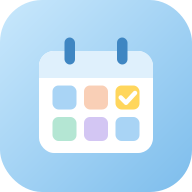
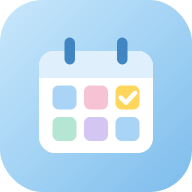
班別時間設定、配色與教學調整
- 新增「班別時間」：可設定 A–D 每班幾點到幾點，跨夜會標示到隔天
- ABCD 改成粉藍、玫瑰、薄荷、薰衣草；今天改成柔和杏色
- 年份移到月份上方、上班天數置中
- 教學會框出「完成，鎖定」與「回到最上面」
- 「以後再說」會指引到使用說明；說明資料與桌面 App 相同
- 快取版本 v2

Claude-Session: https://claude.ai/code/session_01KZ1R5DbayZg3oRgXmngB8d

Changed region(s): [[0.4375, 0.4375, 0.5625, 0.5938]]

diff --git a/index.html b/index.html
@@ -25,12 +25,12 @@
   --glass:rgba(255,255,255,.74); --glassStrong:rgba(255,255,255,.92); --headBg:rgba(234,245,253,.9);
   --ink:#2b4258; --muted:#5f7489; --faint:#a3b7c9; --line:rgba(98,155,205,.28);
   --accent:#3d8cce; --accent-ink:#ffffff; --accentSoft:rgba(125,189,236,.24); --meBg:rgba(150,205,245,.38); --meLine:#8ec2ea;
-  --sun:#d46c64; --sat:#4c9670; --today:rgba(255,232,140,.5); --todayLine:#efc64a;
+  --sun:#d46c64; --sat:#4c9670; --today:rgba(255,236,222,.66); --todayLine:#f2c7a8;
   --edit:#ffe8de; --editInk:#c2674a;
-  --sA:#d9ecfc; --sA-ink:#2e679c;
-  --sB:#fde4d5; --sB-ink:#a2583a;
-  --sC:#d8f2e7; --sC-ink:#2d765c;
-  --sD:#e9e2fb; --sD-ink:#6852a6;
+  --sA:#cfe5fb; --sA-ink:#255f96;
+  --sB:#f9d8e3; --sB-ink:#a0405f;
+  --sC:#cdeee6; --sC-ink:#1f7062;
+  --sD:#e3dafa; --sD-ink:#57439e;
   --shadow:0 8px 24px rgba(61,140,206,.12);
   --font:"Noto Sans TC","PingFang TC","Microsoft JhengHei",system-ui,sans-serif;
   --fs:18px; --cellH:56px; --cellF:26px; --dtF:22px; --nmF:clamp(12px,3.7vw,16px);
@@ -65,13 +65,14 @@ button:focus-visible,input:focus-visible{outline:3px solid var(--accent);outline
 
 /* 今天 */
 .todaycard{background:var(--today);-webkit-backdrop-filter:blur(12px);backdrop-filter:blur(12px);border:2px solid var(--todayLine);border-radius:var(--s5);
-  padding:var(--s3) var(--s4) var(--s4);display:flex;flex-direction:column;gap:var(--s3);box-shadow:0 8px 24px rgba(239,198,74,.18)}
+  padding:var(--s3) var(--s4) var(--s4);display:flex;flex-direction:column;gap:var(--s3);box-shadow:0 8px 24px rgba(232,160,120,.14)}
 .todaycard .lbl{font-weight:700;color:var(--muted);display:flex;align-items:center;gap:var(--s2)}
-.todaycard .lbl .ic{color:#e0a92a;width:1.3em;height:1.3em}
+.todaycard .lbl .ic{color:#e8956a;width:1.3em;height:1.3em}
 .todaycard .lbl b{color:var(--ink);font-size:1.2em}
 .todayshift{display:flex;flex-wrap:wrap;gap:var(--s2)}
 .ts{display:flex;align-items:center;gap:var(--s3);background:var(--glassStrong);border-radius:var(--s4);padding:var(--s2) var(--s4) var(--s2) var(--s2);font-size:1.05em;font-weight:700}
 .ts .chip{min-width:2.9em;height:2.7em;font-size:1.1em}
+.ts .tm{display:block;font-size:.78em;color:var(--muted);font-variant-numeric:tabular-nums}
 .ts.off{color:var(--muted);padding-left:var(--s4)}
 .ts.off .ic{width:1.3em;height:1.3em;color:#8a9fd6}
 .tomorrow{border-top:1px dashed var(--todayLine);padding-top:var(--s3);display:flex;align-items:flex-start;gap:var(--s2)}
@@ -96,12 +97,36 @@ button:focus-visible,input:focus-visible{outline:3px solid var(--accent);outline
 .month{text-align:center;line-height:1.15}
 .month b{display:flex;align-items:center;justify-content:center;gap:var(--s2);font-size:1.65em;font-weight:900}
 .month b .ic{width:.8em;height:.8em;color:var(--accent)}
-.month span{font-size:.9em;color:var(--muted)}
-.total{min-height:56px;border-radius:var(--s4);border:0;background:var(--accentSoft);font-size:1.05em;font-weight:700;display:flex;align-items:center;justify-content:center;gap:var(--s2);padding:var(--s2) var(--s3);flex-wrap:wrap}
-.total > .ic{color:var(--accent);width:1.3em;height:1.3em}
+.month .yr{display:block;font-size:.9em;color:var(--muted)}
+.total{min-height:56px;border-radius:var(--s4);border:0;background:var(--accentSoft);font-size:1.05em;font-weight:700;display:flex;flex-direction:column;align-items:center;justify-content:center;gap:0;padding:var(--s2) var(--s3);text-align:center}
+.total .t1{display:flex;align-items:center;justify-content:center;gap:var(--s2)}
+.total .t1 .ic{color:var(--accent);width:1.3em;height:1.3em}
 .total b{font-size:1.35em;font-weight:900;font-variant-numeric:tabular-nums}
 .total .more{font-size:.85em;color:var(--accent);display:inline-flex;align-items:center}
 .backnow{min-height:52px;border-radius:var(--s4);border:2px solid var(--accent);background:var(--glassStrong);color:var(--accent);font-size:1em;font-weight:700;padding:0 var(--s4);display:flex;align-items:center;justify-content:center;gap:var(--s2)}
+
+/* 班別時間 */
+.legend{border-radius:var(--s5);padding:var(--s3) var(--s4) var(--s4);display:flex;flex-direction:column;gap:var(--s3);text-align:left;width:100%;font-size:1em}
+.legend-h{display:flex;align-items:center;justify-content:space-between;gap:var(--s2);font-weight:700}
+.legend-h > span{display:flex;align-items:center;gap:var(--s2)}
+.legend-h .ic{color:var(--accent);width:1.2em;height:1.2em}
+.legend-h .more{font-size:.85em;color:var(--accent);display:inline-flex;align-items:center}
+.legend-h .more .ic{width:1em;height:1em}
+.legend-g{display:grid;grid-template-columns:repeat(2,minmax(0,1fr));gap:var(--s2) var(--s3)}
+.lg-i{display:flex;align-items:center;gap:var(--s2);min-width:0}
+.lg-i .chip{min-width:40px;height:40px;font-size:20px;flex:none}
+.lg-i span{font-variant-numeric:tabular-nums;font-weight:700;font-size:.92em;line-height:1.25;min-width:0}
+.lg-i small{display:block;font-size:.8em;color:var(--muted);font-weight:500}
+.lg-i .unset{color:var(--faint);font-weight:500}
+.tblock{display:flex;flex-direction:column;gap:var(--s2);background:var(--accentSoft);border-radius:var(--s4);padding:var(--s3)}
+.th{display:flex;align-items:center;gap:var(--s2);font-weight:700}
+.th .chip{min-width:40px;height:40px;font-size:20px}
+.trow{display:grid;grid-template-columns:minmax(0,1fr) auto minmax(0,1fr);align-items:end;gap:var(--s2)}
+.trow label{display:flex;flex-direction:column;gap:var(--s1);font-size:.85em;color:var(--muted);font-weight:700;min-width:0}
+.trow .to{padding-bottom:var(--s3)}
+.trow .to{color:var(--muted);font-weight:700}
+.sheet .trow input{height:56px;font-size:19px;padding:0 var(--s2);font-variant-numeric:tabular-nums;color:var(--ink)}
+.sheet .note{margin:calc(var(--s2) * -1) 0 0;color:var(--muted);line-height:1.6}
 
 /* 名字列（黏在上面） */
 .head{position:sticky;top:env(safe-area-inset-top,0px);z-index:5;background:var(--headBg);-webkit-backdrop-filter:blur(12px);backdrop-filter:blur(12px);
@@ -160,7 +185,8 @@ button:focus-visible,input:focus-visible{outline:3px solid var(--accent);outline
 .sheet-head{display:flex;justify-content:space-between;align-items:center;gap:var(--s3)}
 .closex{min-height:48px;border-radius:var(--s3);border:1px solid var(--line);background:var(--glassStrong);font-size:1em;font-weight:700;padding:0 var(--s4);display:flex;align-items:center;gap:var(--s1)}
 .pick{display:grid;grid-template-columns:1fr 1fr;gap:var(--s3)}
-.pick button{height:76px;border-radius:var(--s4);border:3px solid transparent;font-size:30px;font-weight:900;position:relative;padding:0}
+.pick button{display:flex;flex-direction:column;align-items:center;justify-content:center;line-height:1.15;height:76px;border-radius:var(--s4);border:3px solid transparent;font-size:30px;font-weight:900;position:relative;padding:0}
+.pick button small{font-size:14px;font-weight:700;opacity:.85;font-variant-numeric:tabular-nums}
 .pick button.cur{border-color:var(--ink)}
 .pick button.cur::after{content:"目前";position:absolute;top:var(--s1);right:var(--s3);font-size:14px;font-weight:700}
 .row2{display:grid;grid-template-columns:1fr 1fr;gap:var(--s3)}
@@ -253,7 +279,7 @@ button:focus-visible,input:focus-visible{outline:3px solid var(--accent);outline
   <section class="monthbox glass" id="monthbox">
     <div class="top" id="monthnav">
       <button class="nav" id="prev" aria-label="上個月"><i data-icon="chevL"></i></button>
-      <div class="month"><b><i data-icon="calendar"></i><span id="mtitle">11 月</span></b><span id="ytitle">2026 年</span></div>
+      <div class="month"><span class="yr" id="ytitle">2026 年</span><b><i data-icon="calendar"></i><span id="mtitle">11 月</span></b></div>
       <button class="nav" id="next" aria-label="下個月"><i data-icon="chevR"></i></button>
     </div>
     <button class="total" id="totalBtn"></button>
@@ -264,6 +290,8 @@ button:focus-visible,input:focus-visible{outline:3px solid var(--accent);outline
     <p><i data-icon="info"></i><span><b>這個月還沒排班。</b>按上面的「開始修改」之後，可以直接點格子排，或先照上個月複製一份再改。</span></p>
     <button class="big" id="copyPrev"><i data-icon="copy"></i>照上個月複製</button>
   </section>
+
+  <button class="legend glass" id="legend"></button>
 
   <div class="head">
     <div class="editbar" id="editbar" hidden><i data-icon="pen"></i>修改中：點格子就能改</div>
@@ -311,11 +339,12 @@ const ICONS={
   phone:'<rect x="6.5" y="2.5" width="11" height="19" rx="2.5"/><path d="M12 7v7M9 11l3 3 3-3"/>',
   play:'<circle cx="12" cy="12" r="9.5"/><path d="M10 8.5l5.5 3.5-5.5 3.5z"/>',
   info:'<circle cx="12" cy="12" r="9.5"/><path d="M12 11v5.5M12 7.5h.01"/>',
+  clock:'<circle cx="12" cy="12" r="9.5"/><path d="M12 7v5l3.2 2"/>',
   arrowUpCircle:'<circle cx="12" cy="12" r="9.5"/><path d="M12 16.5v-9M8 11l4-4 4 4"/>',
 };
 const ic=(n,cls='')=>`<svg class="ic ${cls}" viewBox="0 0 24 24" fill="none" stroke="currentColor" stroke-width="2.2" stroke-linecap="round" stroke-linejoin="round" aria-hidden="true">${ICONS[n]||''}</svg>`;
 function paintIcons(root){root.querySelectorAll('i[data-icon]').forEach(el=>{el.outerHTML=ic(el.dataset.icon)})}
-const LOGO='<defs><linearGradient id="lg" x1="0" y1="0" x2="1" y2="1"><stop offset="0" stop-color="#c9e8fc"/><stop offset="1" stop-color="#7dbdec"/></linearGradient></defs><rect width="512" height="512" rx="112" fill="url(#lg)"/><rect x="104" y="136" width="304" height="272" rx="40" fill="#fff"/><path d="M144 136h224a40 40 0 0 1 40 40v32H104v-32a40 40 0 0 1 40-40z" fill="#dff0fc"/><rect x="172" y="100" width="28" height="72" rx="14" fill="#3f86c2"/><rect x="312" y="100" width="28" height="72" rx="14" fill="#3f86c2"/><rect x="140" y="228" width="64" height="64" rx="16" fill="#a9d4f5"/><rect x="224" y="228" width="64" height="64" rx="16" fill="#f9cfb6"/><rect x="308" y="228" width="64" height="64" rx="16" fill="#ffd65c"/><path d="M322 260l14 14 24-26" fill="none" stroke="#fff" stroke-width="12" stroke-linecap="round" stroke-linejoin="round"/><rect x="140" y="312" width="64" height="64" rx="16" fill="#b4e6d3"/><rect x="224" y="312" width="64" height="64" rx="16" fill="#d3c6f3"/><rect x="308" y="312" width="64" height="64" rx="16" fill="#a9d4f5"/>';
+const LOGO='<defs><linearGradient id="lg" x1="0" y1="0" x2="1" y2="1"><stop offset="0" stop-color="#c9e8fc"/><stop offset="1" stop-color="#7dbdec"/></linearGradient></defs><rect width="512" height="512" rx="112" fill="url(#lg)"/><rect x="104" y="136" width="304" height="272" rx="40" fill="#fff"/><path d="M144 136h224a40 40 0 0 1 40 40v32H104v-32a40 40 0 0 1 40-40z" fill="#dff0fc"/><rect x="172" y="100" width="28" height="72" rx="14" fill="#3f86c2"/><rect x="312" y="100" width="28" height="72" rx="14" fill="#3f86c2"/><rect x="140" y="228" width="64" height="64" rx="16" fill="#a9d4f5"/><rect x="224" y="228" width="64" height="64" rx="16" fill="#f5c3d3"/><rect x="308" y="228" width="64" height="64" rx="16" fill="#ffd65c"/><path d="M322 260l14 14 24-26" fill="none" stroke="#fff" stroke-width="12" stroke-linecap="round" stroke-linejoin="round"/><rect x="140" y="312" width="64" height="64" rx="16" fill="#b4e6d3"/><rect x="224" y="312" width="64" height="64" rx="16" fill="#d3c6f3"/><rect x="308" y="312" width="64" height="64" rx="16" fill="#a9d4f5"/>';
 document.querySelectorAll('[data-logo]').forEach((s,i)=>s.innerHTML=LOGO.replace(/\blg\b/g,'lg'+i));
 paintIcons(document);
 
@@ -348,6 +377,7 @@ function seed(){
 }
 let state;try{state=JSON.parse(ls.get(KEY))}catch(e){}
 if(!state)state=seed();
+state.times=state.times||{};
 function persist(){ls.set(KEY,JSON.stringify(state))}
 
 /* ---------- 鎖定 / 字體 ---------- */
@@ -371,7 +401,7 @@ function setFont(v){
 $('fontBtn').onclick=()=>setFont(!bigText);
 
 /* ---------- 回到最上面 ---------- */
-function updateTopBtn(){$('topBtn').hidden=scrollY<500}
+function updateTopBtn(){if(typeof tourShown!=='undefined'&&tourShown===$('topBtn'))return;$('topBtn').hidden=scrollY<500}
 addEventListener('scroll',updateTopBtn,{passive:true});
 $('topBtn').onclick=()=>scrollTo({top:0,behavior:matchMedia('(prefers-reduced-motion: reduce)').matches?'auto':'smooth'});
 
@@ -391,6 +421,8 @@ const people=()=>PLACES.flatMap(pl=>state.people.filter(p=>p.place===pl.id));
 const meList=()=>state.people.filter(p=>p.me);
 const meName=()=>{const m=meList();return m[0]?m[0].name:''};
 const placeOf=p=>PLACES.find(x=>x.id===p.place);
+function fmtTime(s){const t=state.times[s];if(!t||!t.start||!t.end)return '';return t.start+'–'+t.end}
+const overnight=s=>{const t=state.times[s];return !!(t&&t.start&&t.end&&t.end<=t.start)};
 
 function monthCounts(){
   const days=new Date(Y,M,0).getDate();const cnt={A:0,B:0,C:0,D:0};let total=0;
@@ -404,11 +436,11 @@ function renderToday(){
   const tm=new Date(y,m-1,d+1);
   const work=me.map(p=>({s:shiftOn(p.id,y,m,d),pl:placeOf(p)})).filter(w=>w.s);
   let h=`<div class="lbl">${ic('sun')}今天 <b>${m}月${d}日　星期${WD[NOW.getDay()]}</b></div><div class="todayshift">`;
-  if(work.length)work.forEach(w=>{h+=`<div class="ts"><span class="chip s-${w.s}">${w.s}</span>${w.pl.label} ${w.s} 班</div>`});
+  if(work.length)work.forEach(w=>{const t=fmtTime(w.s);h+=`<div class="ts"><span class="chip s-${w.s}">${w.s}</span><span>${w.pl.label} ${w.s} 班${t?`<span class="tm">${t}${overnight(w.s)?'（到隔天）':''}</span>`:''}</span></div>`});
   else h+=`<div class="ts off">${ic('moon')}${esc(meName())} 今天休息</div>`;
   h+='</div>';
   const tw=me.map(p=>({s:shiftOn(p.id,tm.getFullYear(),tm.getMonth()+1,tm.getDate()),pl:placeOf(p)})).filter(w=>w.s);
-  h+=`<div class="tomorrow">${ic('arrowR')}<span>明天 ${tm.getMonth()+1}/${tm.getDate()}（${WD[tm.getDay()]}）：<b>${tw.length?tw.map(w=>w.pl.label+' '+w.s+' 班').join('、'):'休息'}</b></span></div>`;
+  h+=`<div class="tomorrow">${ic('arrowR')}<span>明天 ${tm.getMonth()+1}/${tm.getDate()}（${WD[tm.getDay()]}）：<b>${tw.length?tw.map(w=>w.pl.label+' '+w.s+' 班'+(fmtTime(w.s)?`（${fmtTime(w.s)}）`:'')).join('、'):'休息'}</b></span></div>`;
   $('todaycard').innerHTML=h;
 }
 
@@ -420,7 +452,9 @@ function render(){
   $('backnow').hidden=isNowMonth();
   $('empty').hidden=hasData(key(Y,M));
   const {total}=monthCounts();
-  $('totalBtn').innerHTML=`${ic('chart')}<span>${M}月 共上班 <b>${total}</b> 天</span><span class="more">看詳細${ic('chevR')}</span>`;
+  $('totalBtn').innerHTML=`<span class="t1">${ic('chart')}<span>${M}月 共上班 <b>${total}</b> 天</span></span><span class="more">看詳細${ic('chevR')}</span>`;
+  $('legend').innerHTML=`<div class="legend-h"><span>${ic('clock')}班別時間</span><span class="more">設定${ic('chevR')}</span></div>
+    <div class="legend-g">${SHIFTS.map(s=>{const t=fmtTime(s);return `<div class="lg-i"><span class="chip s-${s}">${s}</span>${t?`<span>${t}${overnight(s)?'<small>到隔天</small>':''}</span>`:'<span class="unset">還沒設定</span>'}</div>`}).join('')}</div>`;
 
   let hh='<div></div>';
   PLACES.forEach(pl=>{hh+=`<div class="ph">${pl.label}</div>`});
@@ -468,7 +502,7 @@ function pickShift(pid,d){
   const p=state.people.find(x=>x.id===pid);const pl=placeOf(p);
   const wd=WD[new Date(Y,M-1,d).getDay()];const cur=shiftOn(pid,Y,M,d);
   openSheet(`<h2>${ic('calendar')}${M}月${d}日　星期${wd}</h2><p class="who">${esc(p.name)}・${pl.label}</p>
-    <div class="pick">${SHIFTS.map(s=>`<button class="s-${s} ${cur===s?'cur':''}" data-set="${s}">${s} 班</button>`).join('')}</div>
+    <div class="pick">${SHIFTS.map(s=>`<button class="s-${s} ${cur===s?'cur':''}" data-set="${s}">${s} 班${fmtTime(s)?`<small>${fmtTime(s)}</small>`:''}</button>`).join('')}</div>
     <div class="row2"><button class="big ghost" data-set="">${ic('moon')}休息</button><button class="big ghost" data-close>${ic('x')}取消</button></div>`,
   e=>{
     const b=e.target.closest('button');if(!b)return;
@@ -496,6 +530,24 @@ function rename(pid){
     }
   });
 }
+function showTimes(){
+  let h=`<div class="sheet-head"><h2>${ic('clock')}班別時間</h2><button class="closex" data-close>${ic('x')}關閉</button></div>
+    <p class="note">設定每一種班從幾點到幾點。點時間的格子就能選。不知道的可以先空著。</p>`;
+  SHIFTS.forEach(s=>{const t=state.times[s]||{};
+    h+=`<div class="tblock"><div class="th"><span class="chip s-${s}">${s}</span>${s} 班</div><div class="trow"><label>開始<input type="time" id="t-${s}-start" value="${t.start||''}"></label><span class="to">到</span><label>結束<input type="time" id="t-${s}-end" value="${t.end||''}"></label></div></div>`});
+  h+=`<div class="row2"><button class="big" data-ok>${ic('check')}儲存</button><button class="big ghost" data-close>${ic('x')}取消</button></div>`;
+  openSheet(h,e=>{
+    const b=e.target.closest('button');if(!b)return;
+    if(b.hasAttribute('data-close'))return closeSheet();
+    if(b.hasAttribute('data-ok')){
+      const nt={};SHIFTS.forEach(s=>{const a=$(`t-${s}-start`).value,z=$(`t-${s}-end`).value;if(a||z)nt[s]={start:a,end:z}});
+      closeSheet();
+      if(JSON.stringify(nt)===JSON.stringify(state.times))return;
+      remember();state.times=nt;commit('班別時間已儲存');
+    }
+  });
+}
+$('legend').onclick=showTimes;
 function needUnlock(){toast('要修改，請先按「開始修改」',false)}
 
 $('days').addEventListener('click',e=>{const c=e.target.closest('[data-p]');if(!c)return;if(!editing)return needUnlock();pickShift(c.dataset.p,+c.dataset.d)});
@@ -535,7 +587,7 @@ async function doInstall(){
   }else showHelp(HELP.findIndex(h=>h.id==='install'));
 }
 $('installBtn').onclick=doInstall;
-$('installLater').onclick=()=>{ls.set(INSTALL_KEY,'1');updateInstallCard();toast('之後可以在「使用說明」找到',false)};
+$('installLater').onclick=()=>{ls.set(INSTALL_KEY,'1');updateInstallCard();startTour([T.installLater],false)};
 if('serviceWorker' in navigator&&(location.protocol==='https:'||location.hostname==='localhost')){
   addEventListener('load',()=>{navigator.serviceWorker.register('./sw.js').catch(()=>{})});
 }
@@ -551,9 +603,12 @@ const T={
   names:{el:()=>$('head'),title:'誰的班',text:'最上面這一排是名字。左邊三個人是第一處，右邊三個人是第二處。往下滑的時候，名字會一直留在上面。'},
   lock:{el:()=>$('lockBtn'),title:'先按「開始修改」',text:'平常是鎖住的，不會不小心改到。要改的時候，先按這個「開始修改」。'},
   cell:{el:exampleCell,title:'點格子改班',text:'開始修改之後，點想改的格子，下面會跳出 A、B、C、D 和「休息」，選一個就改好了。'},
-  done:{title:'改完記得鎖定',text:'修改的時候，右下角會出現一顆「完成，鎖定」按鈕。改完按它，就會鎖住並儲存，不用滑回最上面。'},
+  done:{el:()=>$('fab'),show:'fab',title:'改完記得鎖定',text:'修改的時候，右下角會出現一顆「完成，鎖定」按鈕。改完按它，就會鎖住並儲存，不用滑回最上面。'},
   undo:{el:exampleCell,title:'改錯了沒關係',text:'每次改完，畫面上方會出現一行字，旁邊有「復原」按鈕。按一下，就會回到改之前的樣子。'},
-  toTop:{title:'回到最上面',text:'往下滑到比較下面的時候，右下角會出現「回到最上面」按鈕。按一下就會回到最上面。'},
+  toTop:{el:()=>$('topBtn'),show:'topBtn',title:'回到最上面',text:'往下滑到比較下面的時候，右下角會出現「回到最上面」按鈕。按一下就會回到最上面。'},
+  times:{el:()=>$('legend'),title:'班別時間',text:'這張卡片寫 A、B、C、D 每一種班是幾點到幾點。點一下就可以設定時間。'},
+  times2:{title:'選時間',text:'點時間的格子，會跳出選時間的畫面，選好幾點幾分再按「設定」。四種班都選好後，按「儲存」就完成了。夜班跨到隔天也沒關係，會自動寫「到隔天」。'},
+  installLater:{el:()=>$('helpBtn'),title:'之後想放到桌面',text:'好的。之後想把班表放到手機桌面，按「使用說明」，找「怎麼放到手機桌面？」就可以了。'},
   nextMonth:{el:()=>$('next'),title:'到新的月份',text:'先按右邊的箭頭，換到要排班的月份。'},
   copy:{title:'照上個月複製',text:'新的月份如果還是空的，畫面會出現「照上個月複製」按鈕。先按「開始修改」，再按這顆，就會把上個月的排法帶過來，再挑要改的格子修改就好。'},
   rename:{el:()=>$('head').querySelector('[data-rename]'),title:'點名字改名字',text:'開始修改之後，點最上面的名字，就可以改成正確的字，按「儲存」就好。'},
@@ -564,11 +619,12 @@ const T={
   inst3:{title:'選「加到主畫面」',text:'在選單裡點「加到主畫面」。有的手機會寫「安裝應用程式」，點它也可以。'},
   inst4:{title:'按「安裝」',text:'跳出視窗後按「安裝」或「新增」。回到手機桌面，就會看到藍色的「班表」圖示，以後點它就能打開。'},
 };
-const MAIN_TOUR=[{title:'歡迎使用班表',text:'這是洪國昌的班表。接下來用幾個步驟，帶您看怎麼使用。'},T.today,T.month,T.total,T.row,T.lock,T.cell,T.done,T.toTop,T.font,T.help];
+const MAIN_TOUR=[{title:'歡迎使用班表',text:'這是洪國昌的班表。接下來用幾個步驟，帶您看怎麼使用。'},T.today,T.month,T.total,T.times,T.row,T.lock,T.cell,T.done,T.toTop,T.font,T.help];
 const HELP=[
   {icon:'sun',q:'今天上什麼班？',a:'<p>打開畫面，最上面黃色的卡片就會寫今天和明天上什麼班。下面表格裡，今天那一行也會用黃色框起來。</p>',tour:[T.today,T.row]},
   {icon:'calendar',q:'怎麼看其他月份？',a:'<p>按月份兩邊的箭頭換月份。看別的月份時，會出現「回到這個月」按鈕，按一下就回來。</p>',tour:[T.month]},
   {icon:'chart',q:'這個月上幾天班？',a:'<p>月份下面寫著一共上幾天班。點一下，可以看第一處、第二處各種班上幾天。</p>',tour:[T.total]},
+  {icon:'clock',q:'怎麼設定各班的時間？',a:'<p>點表格上方的「班別時間」卡片，在每一種班旁邊選開始和結束的時間，按「儲存」。設好之後，今天卡片和選班的時候都會顯示時間。</p>',tour:[T.times,T.times2]},
   {icon:'grid',q:'表格怎麼看？',a:'<p>一天一行。上面一排是名字，左邊三人是第一處，右邊三人是第二處。有顏色、寫 A、B、C、D 的是上班，寫「休」的是休息。</p>',tour:[T.names,T.row]},
   {icon:'pen',q:'怎麼修改班表？',a:'<p>先按左上角「開始修改」，再點想改的格子，選 A、B、C、D 或「休息」。改完按右下角「完成，鎖定」。</p>',tour:[T.lock,T.cell,T.done]},
   {icon:'undo',q:'改錯了怎麼辦？',a:'<p>改完後，畫面上方會出現「復原」按鈕，按一下就會回到改之前的樣子。</p>',tour:[T.undo]},
@@ -576,7 +632,7 @@ const HELP=[
   {icon:'user',q:'名字寫錯了怎麼改？',a:'<p>按「開始修改」後，點最上面的名字，改好按「儲存」。</p>',tour:[T.lock,T.rename]},
   {icon:'arrowUpCircle',q:'滑太下面，怎麼回到上面？',a:'<p>往下滑之後，右下角會出現「回到最上面」按鈕，按一下就回到最上面。</p>',tour:[T.toTop]},
   {icon:'textUp',q:'字太小看不清楚',a:'<p>按上面的「放大字體」，字和格子都會變大。再按一次「縮小字體」就變回來。</p>',tour:[T.font]},
-  {id:'install',icon:'phone',q:'怎麼放到手機桌面？',a:'<p>放到桌面以後，就像 App 一樣，點圖示就能打開。</p><ol><li>用 Chrome 打開班表網址</li><li>點右上角 <span class="kbd">⋮</span></li><li>點「加到主畫面」或「安裝應用程式」</li><li>按「安裝」，桌面就會出現「班表」圖示</li></ol>',tour:[T.inst1,T.inst2,T.inst3,T.inst4],installBtn:true},
+  {id:'install',icon:'phone',q:'怎麼放到手機桌面？',a:'<p>放到桌面以後，就像 App 一樣，點圖示就能打開。</p><ol><li>用 Chrome 打開班表網址</li><li>點右上角 <span class="kbd">⋮</span></li><li>點「加到主畫面」或「安裝應用程式」</li><li>按「安裝」，桌面就會出現「班表」圖示</li></ol><p>放到桌面後，裡面的班表跟用 Chrome 打開看到的是同一份，改了兩邊都一樣。</p>',tour:[T.inst1,T.inst2,T.inst3,T.inst4],installBtn:true},
 ];
 function showHelp(open){
   let h=`<div class="sheet-head"><h2>${ic('help')}使用說明</h2><button class="closex" data-close>${ic('x')}關閉</button></div>
@@ -605,12 +661,15 @@ function showHelp(open){
 }
 $('helpBtn').onclick=()=>showHelp(-1);
 
-let tour=null,tourEl=null;
+let tour=null,tourEl=null,tourShown=null;
+function restoreShown(){if(tourShown){const e=tourShown;tourShown=null;if(e.id==='fab')e.hidden=!editing;else updateTopBtn()}}
 function startTour(steps,main){closeSheet();$('toast').hidden=true;tour={steps,main,i:0};showStep()}
-function endTour(){if(tour&&tour.main)ls.set(TOUR_KEY,'1');tour=null;tourEl=null;$('tourblock').hidden=true;$('ring').hidden=true;$('tourcard').hidden=true}
+function endTour(){restoreShown();if(tour&&tour.main)ls.set(TOUR_KEY,'1');tour=null;tourEl=null;$('tourblock').hidden=true;$('ring').hidden=true;$('tourcard').hidden=true}
 function visible(el){if(!el)return false;const r=el.getBoundingClientRect();return r.width>0&&r.height>0}
 function showStep(){
   const s=tour.steps[tour.i],n=tour.steps.length,last=tour.i===n-1;
+  restoreShown();
+  if(s.show){const e=$(s.show);if(e){e.hidden=false;tourShown=e}}
   tourEl=s.el?s.el():null;if(!visible(tourEl))tourEl=null;
   $('tourblock').hidden=false;$('tourcard').hidden=false;
   $('tourblock').classList.toggle('dim',!tourEl);
@@ -618,7 +677,7 @@ function showStep(){
     <h2>${s.title}</h2><p>${s.text}</p>
     <div class="row2">${tour.i>0?`<button class="big ghost" data-prev>${ic('chevL')}上一步</button>`:'<span></span>'}<button class="big" data-next>${last?ic('check')+(tour.main?'我會用了':'知道了'):'下一步'+ic('chevR')}</button></div>`;
   if(tourEl){
-    if(!tourEl.closest('.head')&&!tourEl.closest('.days'))scrollTo(0,0);
+    if(!tourEl.closest('.head')&&!tourEl.closest('.days')&&!tourEl.closest('.fabs'))scrollTo(0,0);
     tourEl.scrollIntoView({block:'center'});
     requestAnimationFrame(()=>requestAnimationFrame(placeRing));
   }else{$('ring').hidden=true;$('tourcard').className='tourcard bottom'}

diff --git a/sw.js b/sw.js
@@ -1,5 +1,5 @@
 // 班表 Service Worker：沒有網路也能打開；有網路時自動拿最新版本
-const VERSION = 'v1';
+const VERSION = 'v2';
 const SHELL = `roster-shell-${VERSION}`;
 const FONTS = 'roster-fonts';
 const FILES = [
